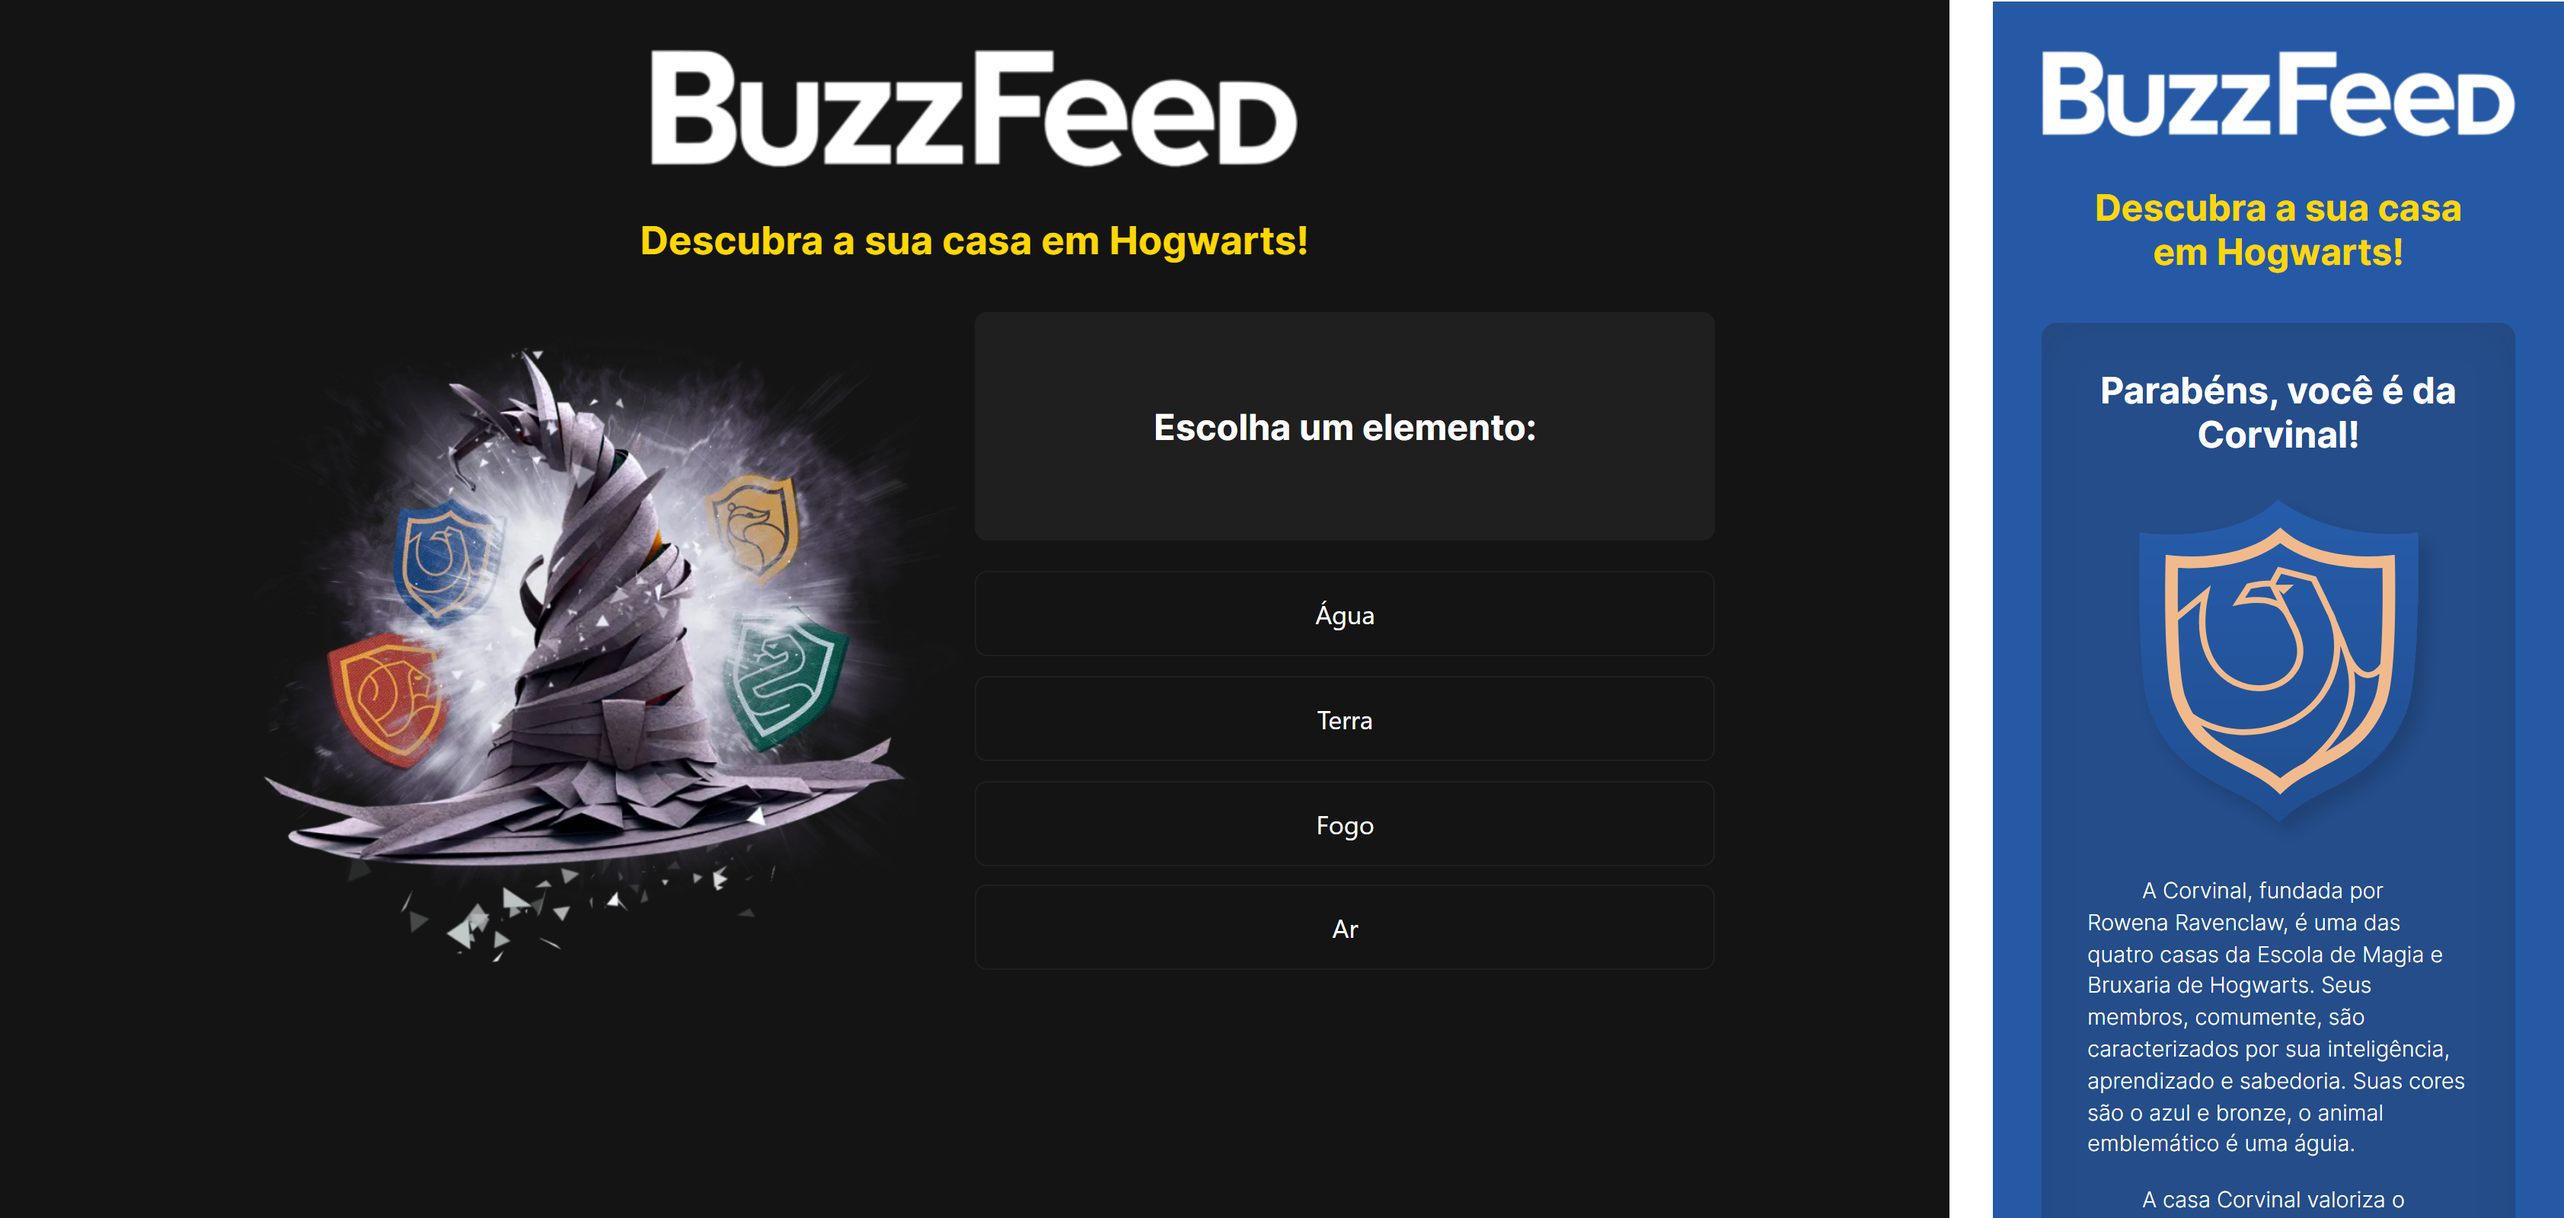
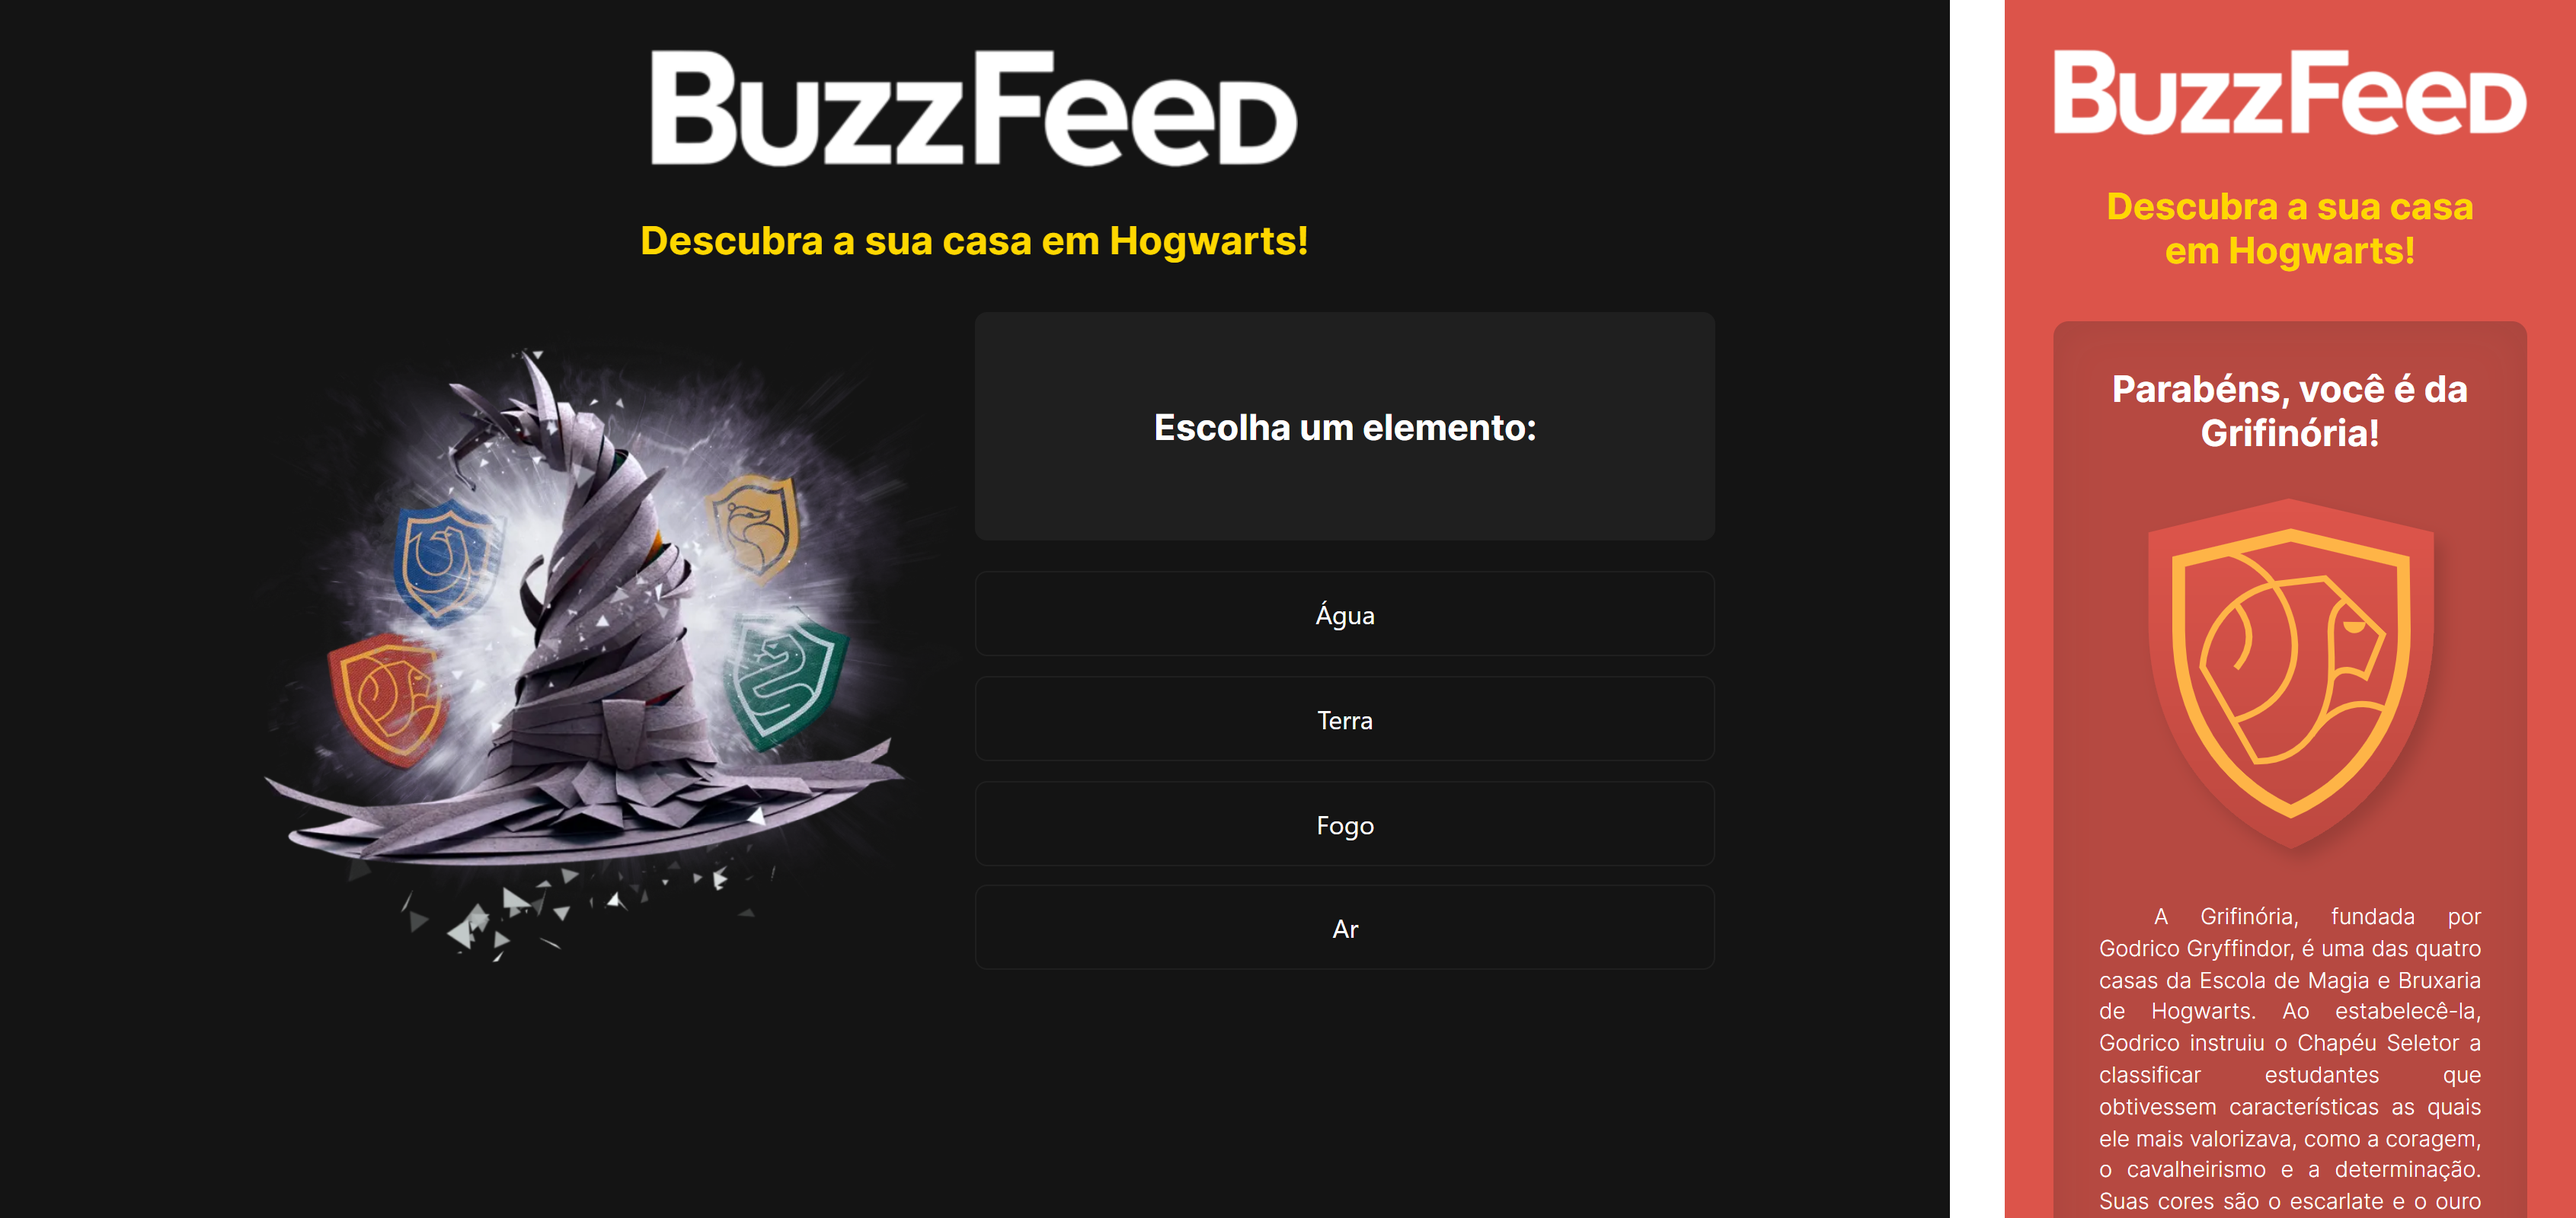
modified design

diff --git a/src/app/components/quizz/quizz.component.css b/src/app/components/quizz/quizz.component.css
@@ -156,14 +156,32 @@
     .quizz_results_content-paragraphs {
         margin: 1rem 0;
     }
-
-    .quizz_results_content-paragraphs p {
-        text-align: start;
-    }
 }
 
 @media (max-width: 480px) {
     .quizz_container {
         width: 100%;
+    }
+}
+
+@media (max-width: 280px) {
+    .quizz_logo h3, .quizz_results h1 {
+        font-size: 1.2rem;
+    }
+
+    .quizz_questions {
+        padding: 1rem;
+    }
+
+    .quizz_questions h3 {
+        font-size: 1.1rem;
+    }
+
+    .quizz_results_content-paragraphs {
+        margin: 1rem;
+    }
+
+    .quizz_results_content-paragraphs p {
+        font-size: .9rem;
     }
 }

diff --git a/src/app/components/quizz/quizz.component.ts b/src/app/components/quizz/quizz.component.ts
@@ -49,6 +49,7 @@ export class QuizzComponent implements OnInit {
       this.finished = true;
       this.answerSelected = quizz_questions.results[finalAnswer as keyof typeof quizz_questions.results];
       this.elemento.nativeElement.ownerDocument.body.style.backgroundColor = this.answerSelected.color;
+      this.elemento.nativeElement.ownerDocument.getElementById("title").style.color = this.answerSelected.colorSecond;
     }
   }
 

diff --git a/src/app/components/quizz/quizz.component.html b/src/app/components/quizz/quizz.component.html
@@ -1,7 +1,7 @@
 <div class="quizz_container">
     <div class="quizz_logo">
         <img src="assets/imgs/logo.png" alt="">
-        <h3>{{ title }}</h3>
+        <h3 id="title">{{ title }}</h3>
     </div>
     <div *ngIf=!finished class="quizz_container-body">
         <div class="quizz_img">

diff --git a/src/styles.css b/src/styles.css
@@ -13,3 +13,9 @@ body {
     flex-direction: column;
     justify-content: center;
 }
+
+@media (max-width: 280px) {
+    body {
+        margin: 2rem 1rem;
+    }
+}
